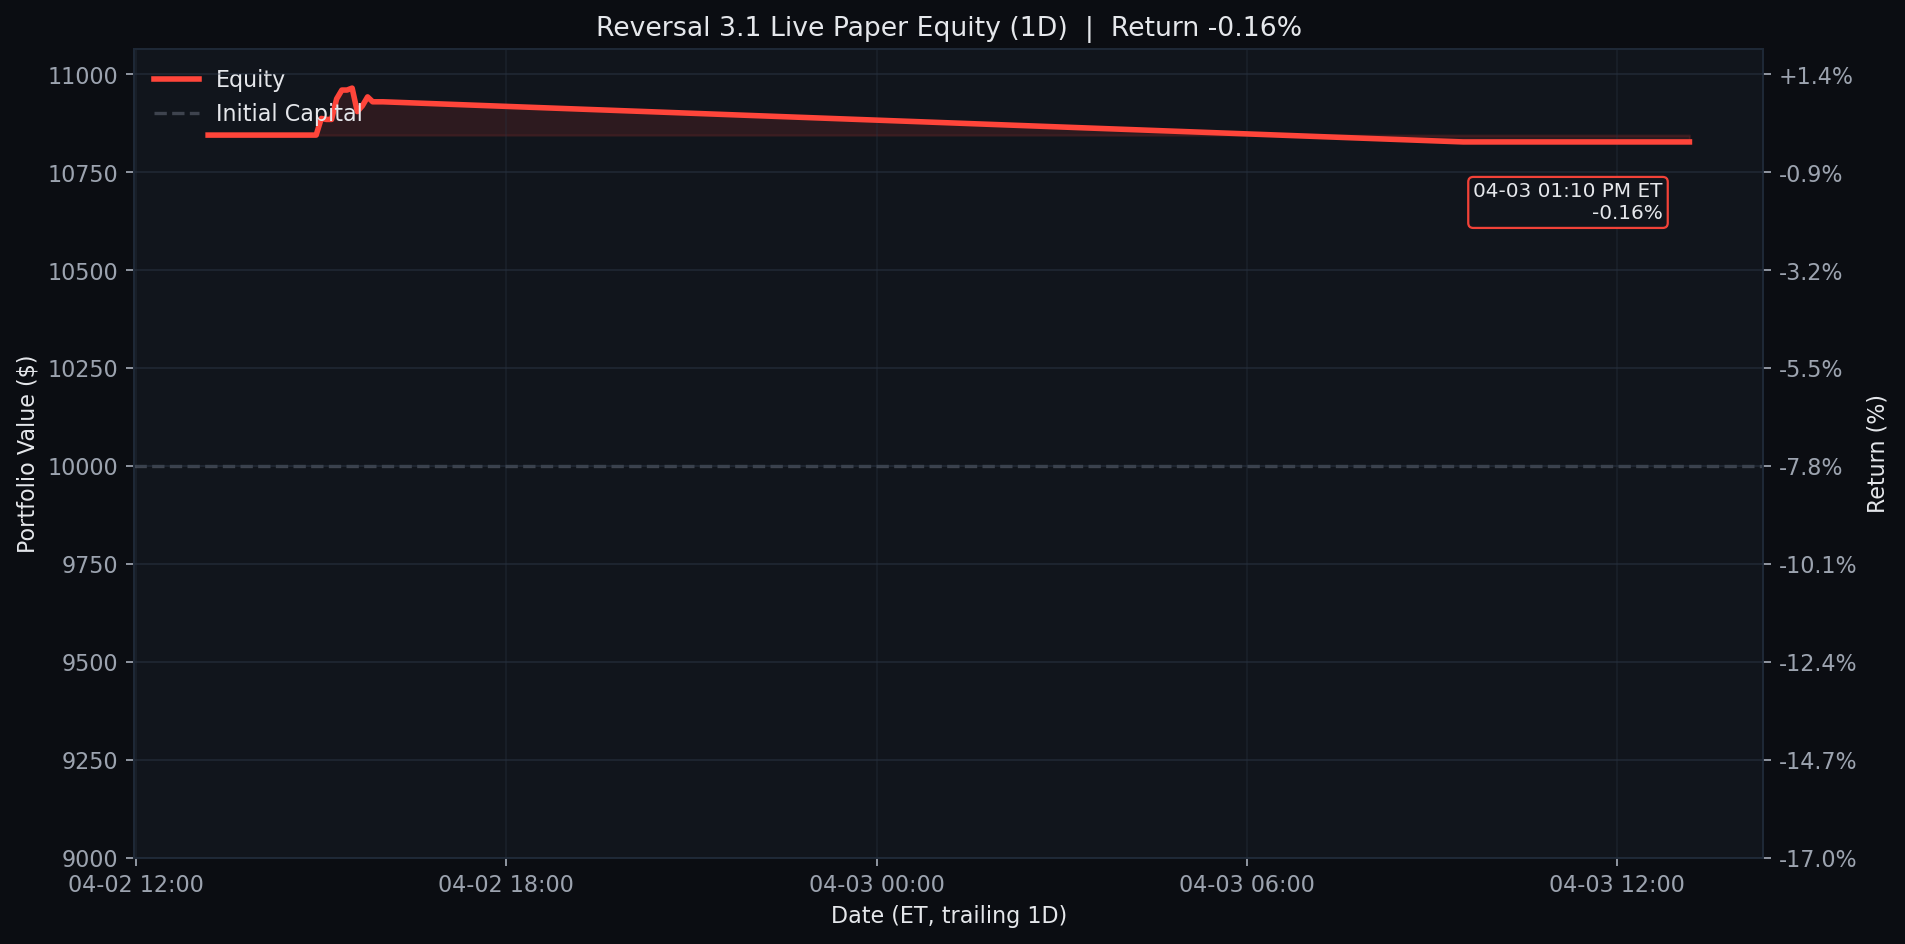
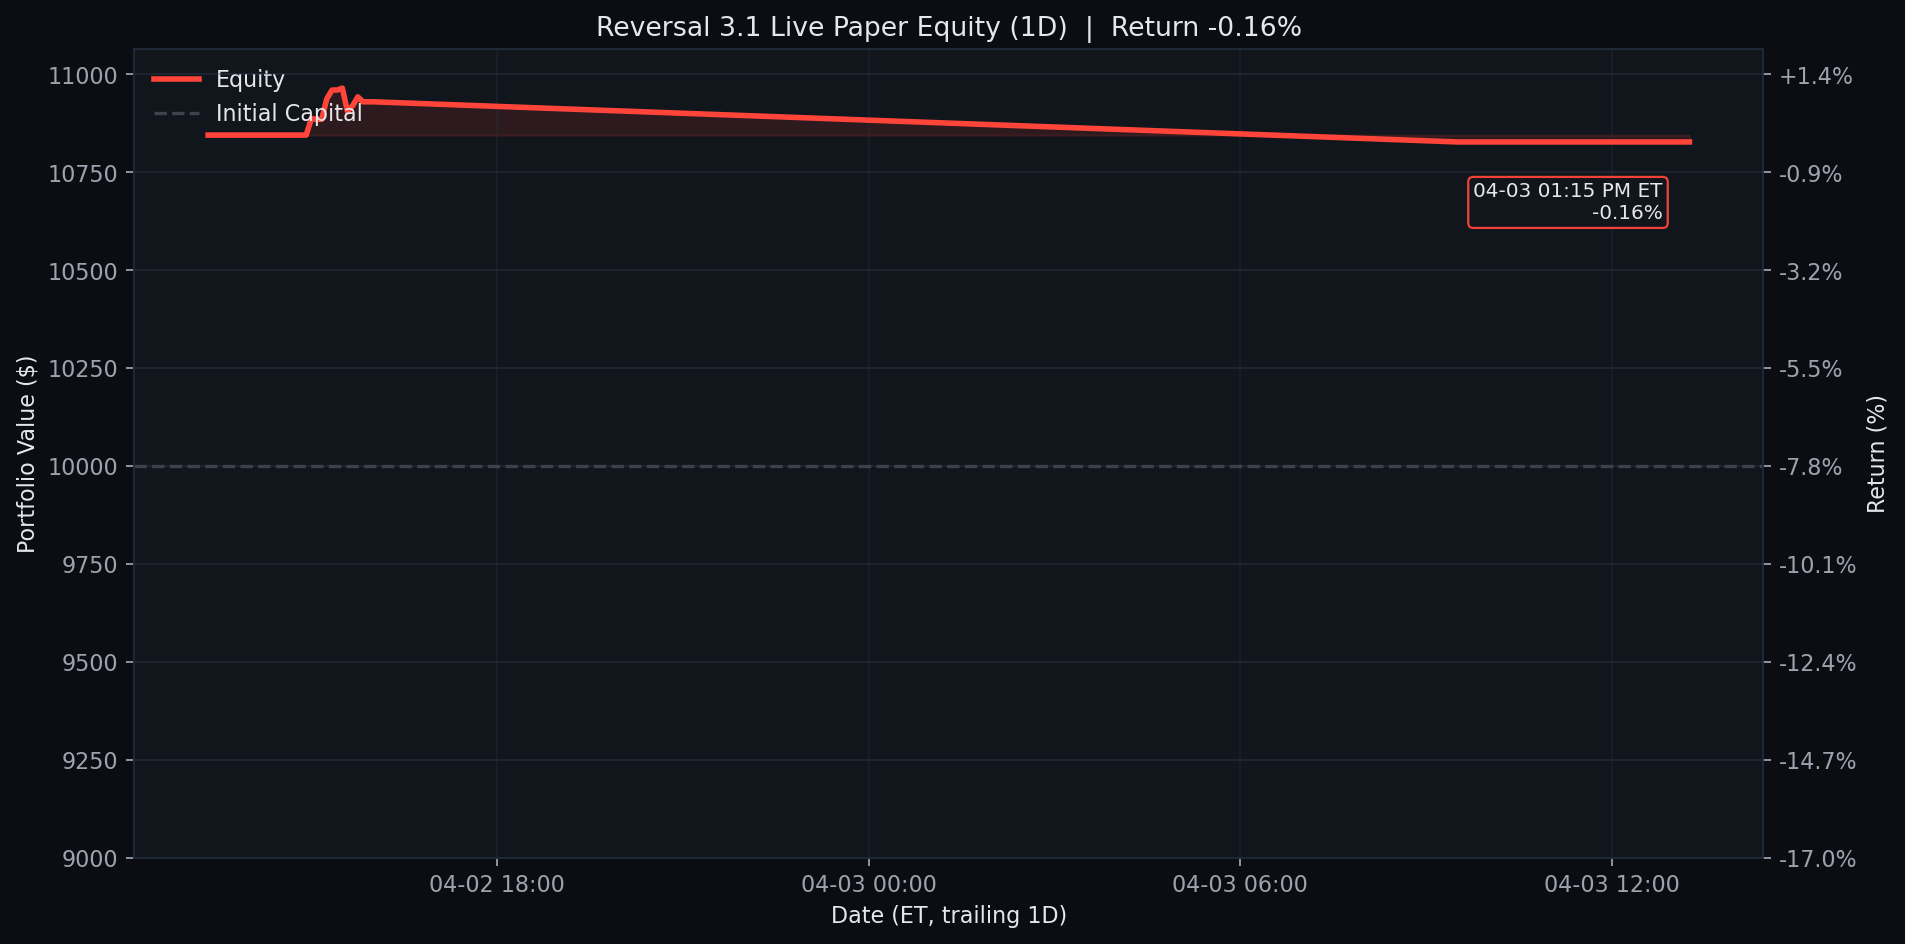
Update Reversal 3.1 live paper test 2026-04-03 13:15 ET

diff --git a/README.md b/README.md
@@ -3,10 +3,10 @@
 <!-- reversal-3.1-live:start -->
 ## Reversal 3.1 Live Paper Test
 
-- Last updated (ET): `2026-04-03 13:10:05 EDT`
+- Last updated (ET): `2026-04-03 13:15:05 EDT`
 - Equity: `$10,827.50` | Realized: `$845.00` | Unrealized: `$-17.50` | Open positions: `1`
 - Today closed trades: `0`
-- Current slot: `manage_1300`
+- Current slot: `manual_refresh`
 - Universe: `qqq_plus_leverage_etfs`
 - Chart windows: `1D / 1W / 1M` (default open panel: `1W`)
 

diff --git a/results/reversal_3_1_live/README.md b/results/reversal_3_1_live/README.md
@@ -1,7 +1,7 @@
 # Reversal 3.1 Live Paper Test
 
-Last updated (ET): `2026-04-03 13:10:05 EDT`
-Last processed slot: `manage_1300`
+Last updated (ET): `2026-04-03 13:15:05 EDT`
+Last processed slot: `manual_refresh`
 
 ## Active Configuration
 
